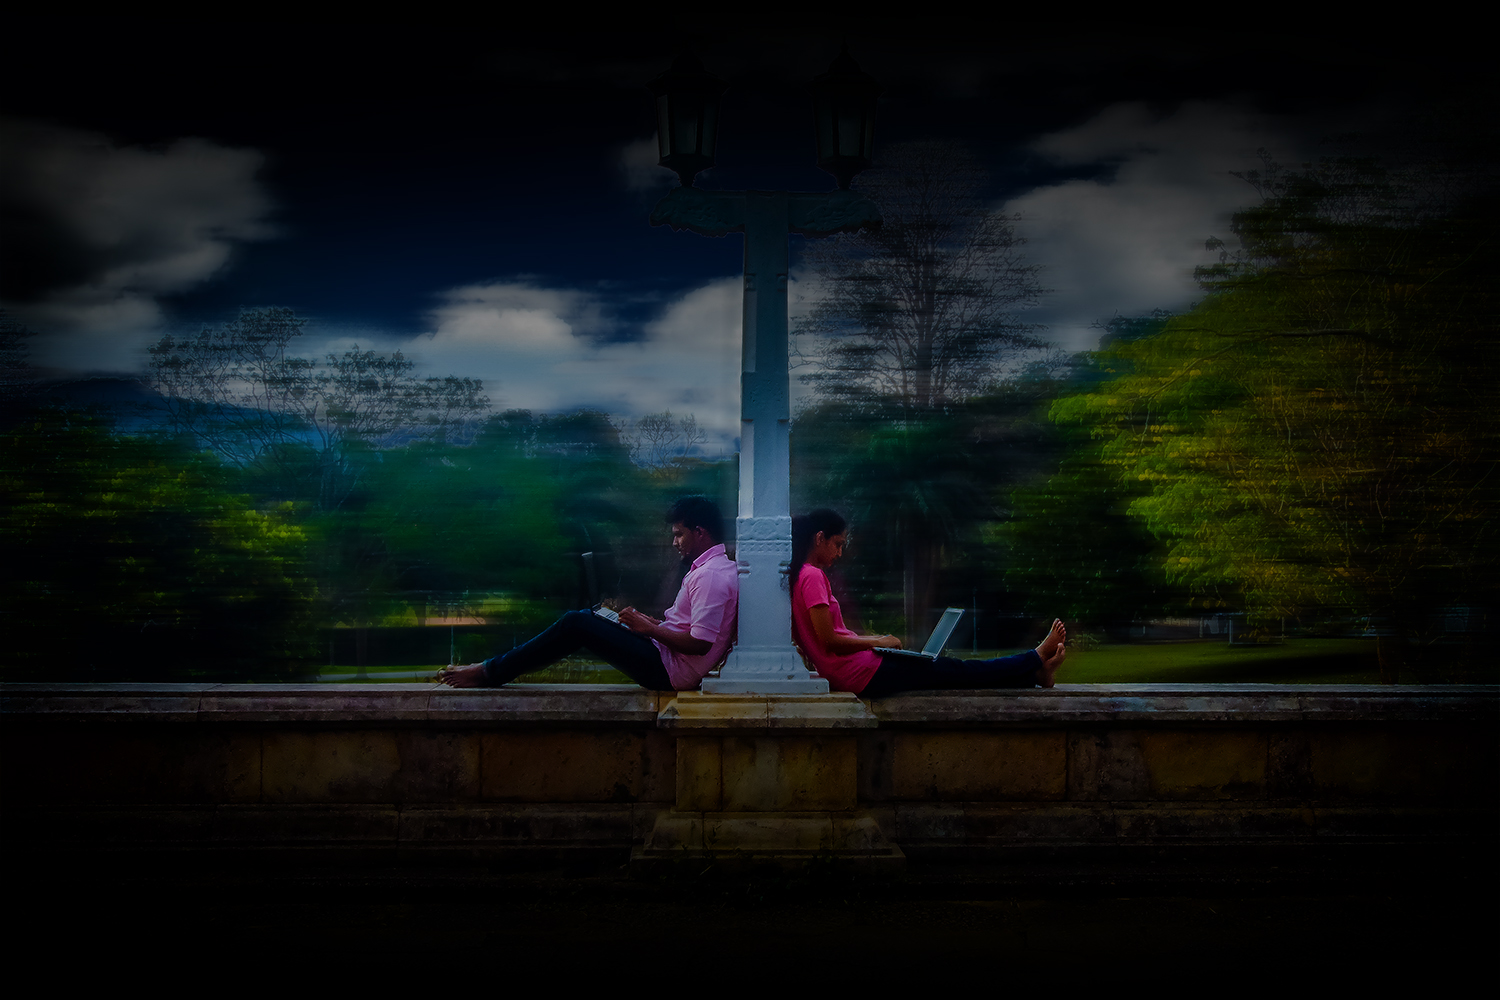
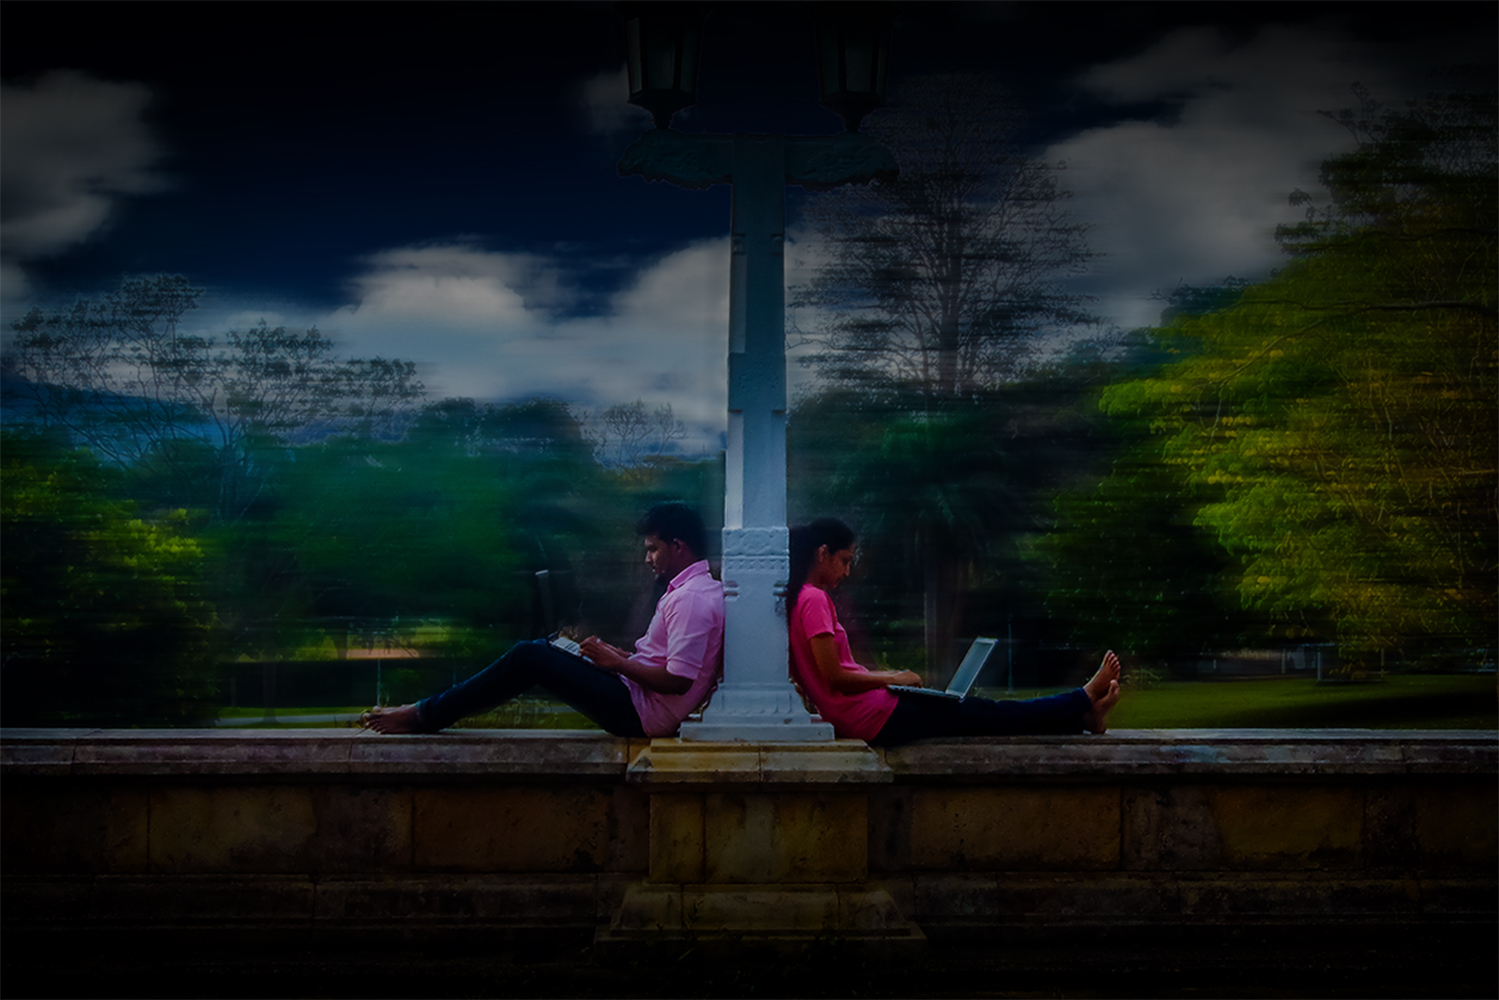
about edit

diff --git a/about.htm b/about.htm
@@ -8,7 +8,7 @@
     <meta charset="utf-8">
     <meta http-equiv="X-UA-Compatible" content="IE=edge,chrome=1">
     
-    <title>About | POCO PEOPLE</title>
+    <title>About | coders v5.0</title>
     <meta name="description" content="">
     <meta name="author" content="">
     
@@ -30,24 +30,6 @@
 </head>
 
 <body class="about distressed">
-
-<style type="text/css">
-#awwwards{
-position:absolute;
-top:20px;
-right:0px;
-z-index:555;
-}
-#awwwards a{
-width:69px;
-height:105px;
-text-indent:-8000px;
-display:block;
-background:url(img/awwwards_siteoftheday_w_right.png) no-repeat;
-overflow:hidden;
-}
-</style>
-<div id="awwwards"><a href="http://www.awwwards.com/web-design-awards/poco-people" target="_blank">website awards</a></div>
 
    <div id="wrapper">
     
@@ -78,7 +60,7 @@ overflow:hidden;
                     <div class="col2 clearfix">
                     
                         <div class="col first travis">
-                            <h2>Travis</h2>
+                            <h2>aces</h2>
                             <div class="content" style="min-height: 380px">
                                 <p>Travis Tiddy hails from Queenstown on
  the West Coast of Tasmania, and specialises in interpretation design, 
@@ -99,7 +81,7 @@ Churchill Fellowship study trip in Europe and Asia.</p>
                         </div>
                         
                         <div class="col last kelly">
-                            <h2>Kelly</h2>
+                            <h2>coders v5.0</h2>
                             <div class="content" style="min-height: 380px">
                                 <p>Kelly Eijdenberg has worked full-time
  in the creative industries since 2005. Former President of Australia’s 

diff --git a/css/style_override.css b/css/style_override.css
@@ -1,6 +1,6 @@
 .home_body{
     background-image: url(../index_files/index_img.jpg);
-    background-position: top;
+    background-position: center;
     background-repeat: no-repeat;
     background-size: cover;
 }
